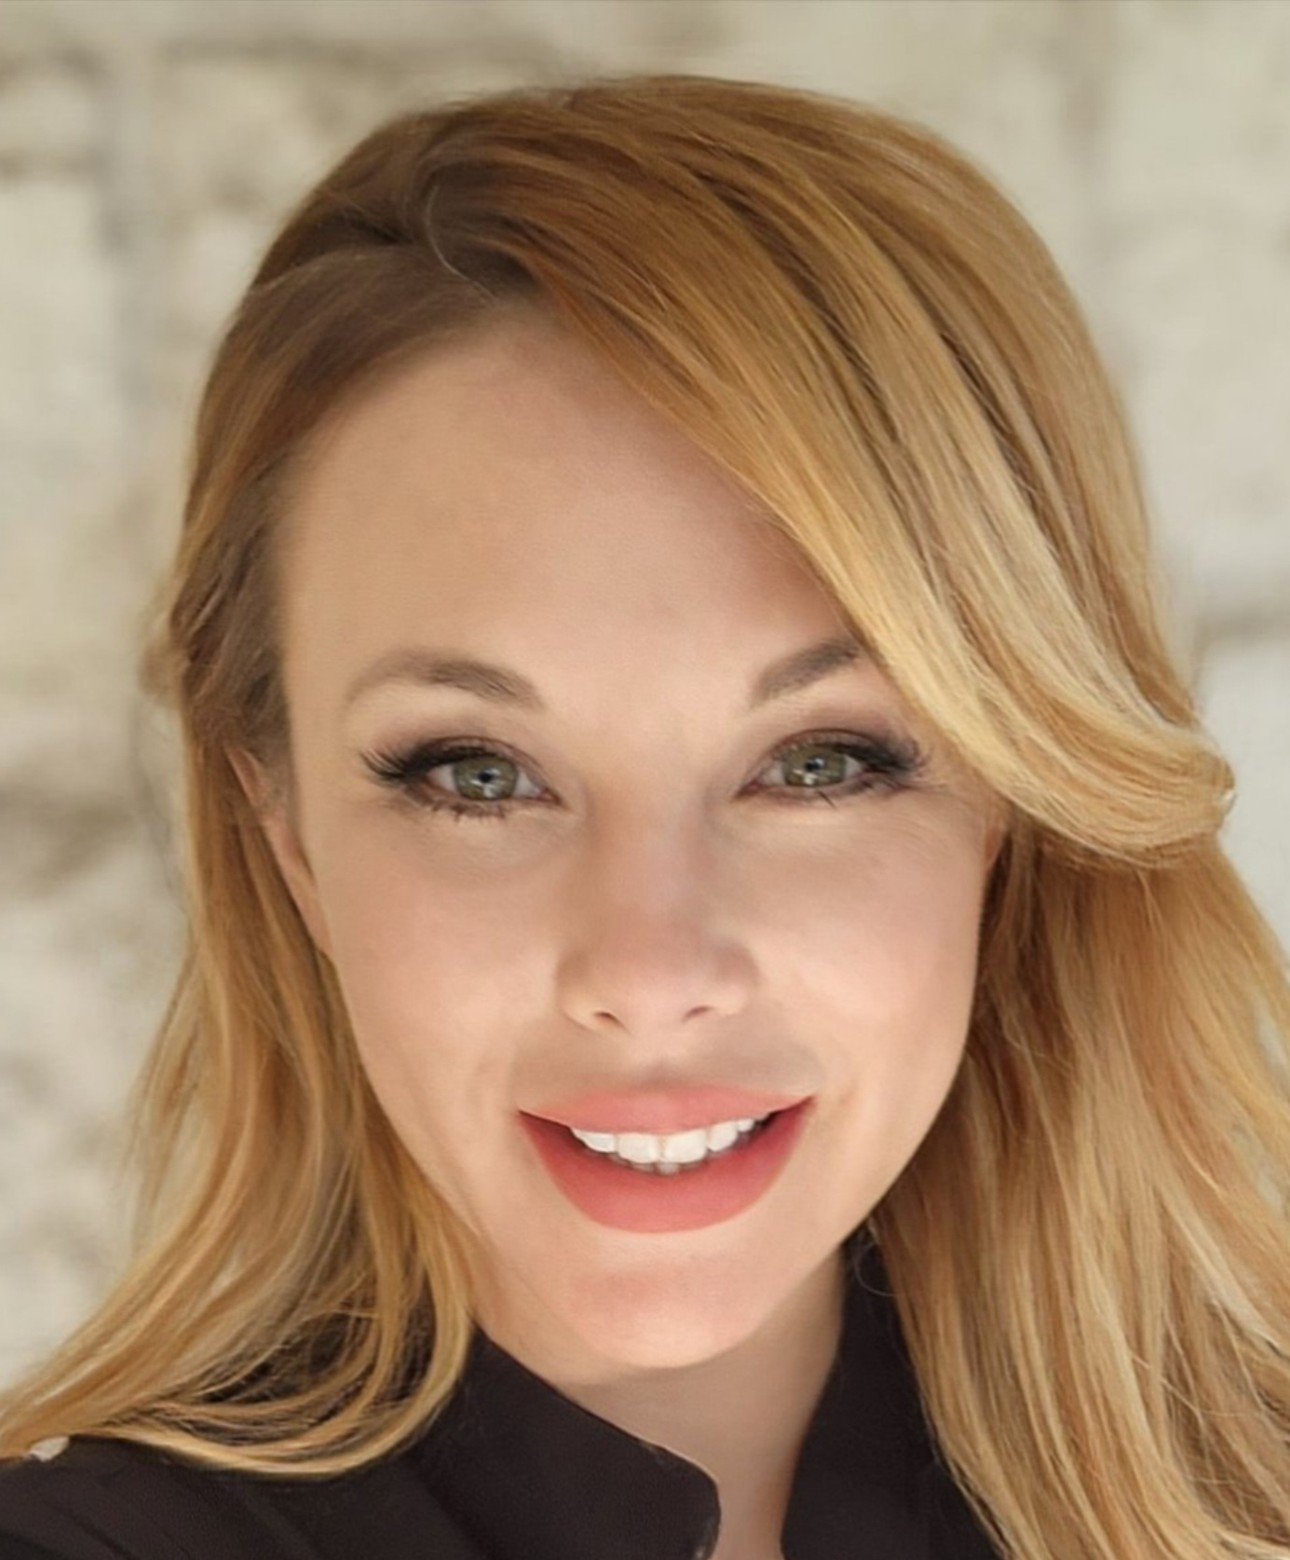
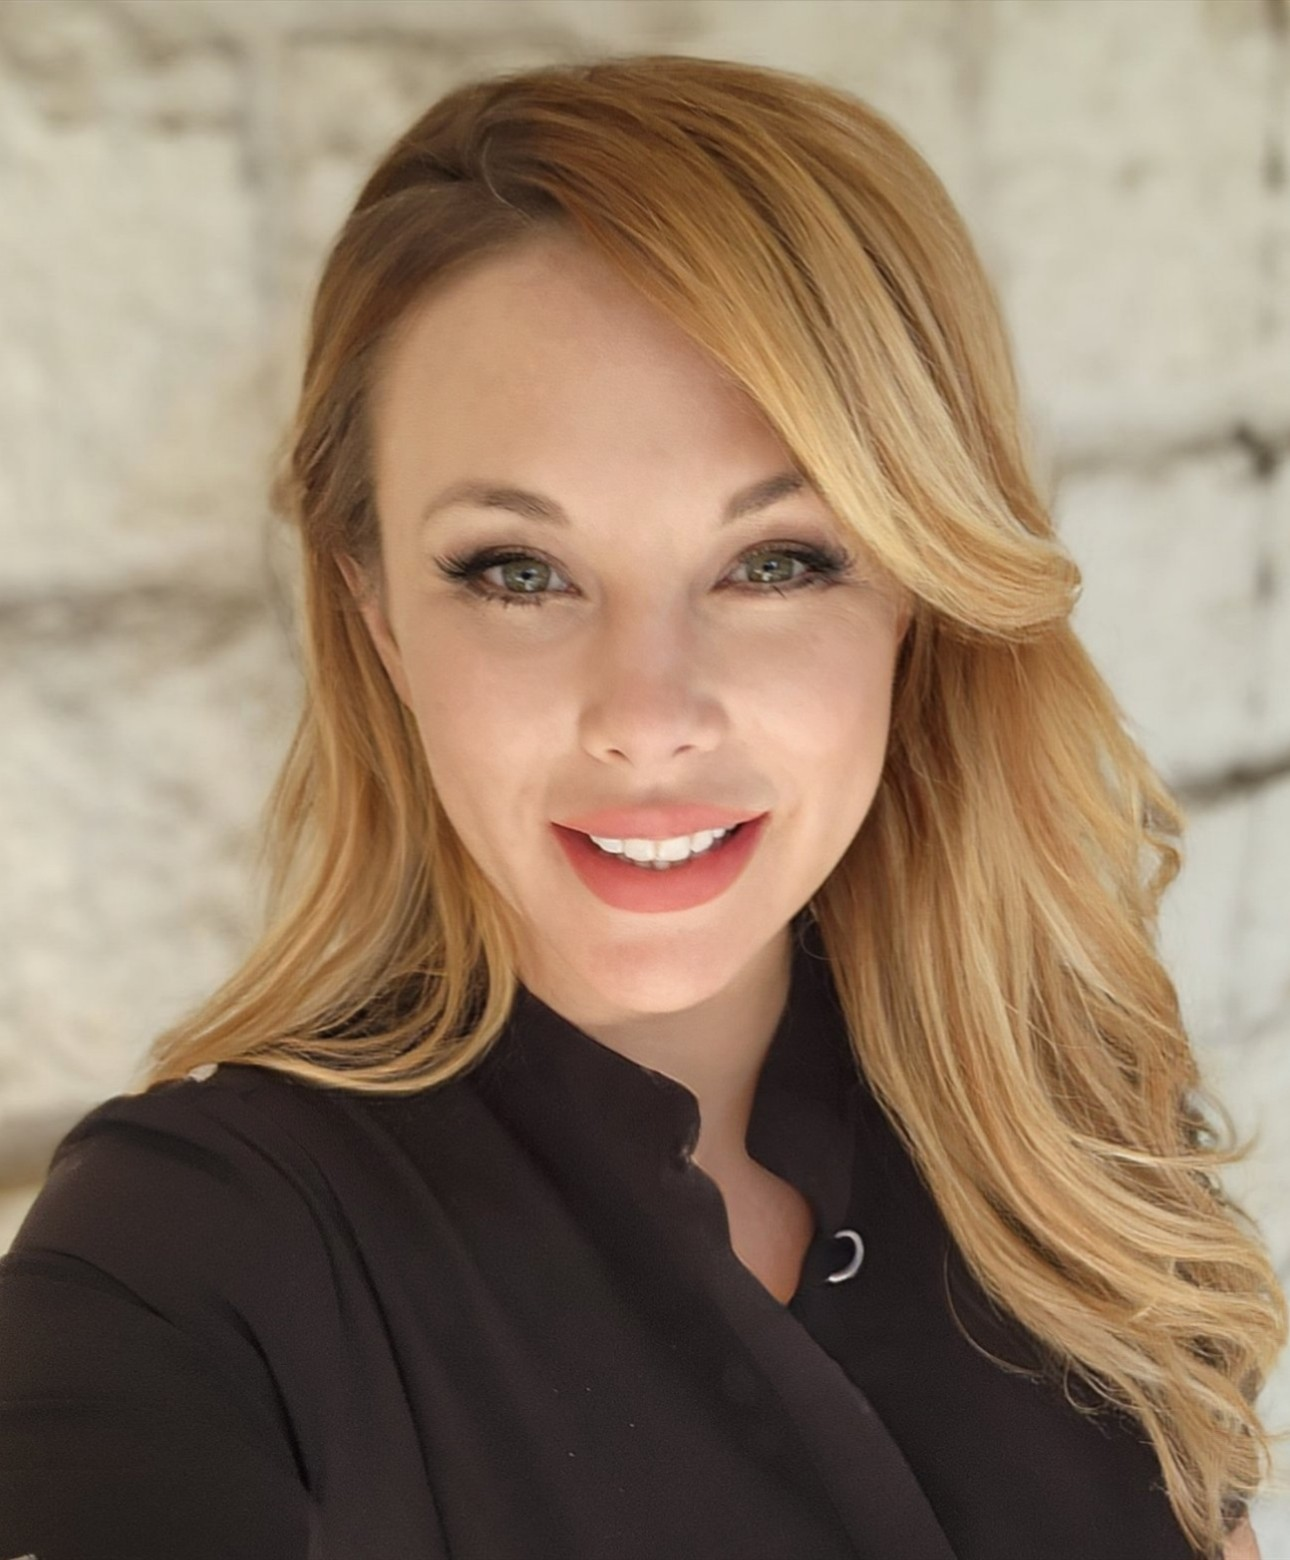
Scale down Mike and Ronni board photos to match Stephen framing

diff --git a/board-of-directors.html b/board-of-directors.html
@@ -154,8 +154,8 @@
 
       <!-- Michael -->
       <div class="bg-white border rounded-3xl overflow-hidden">
-        <div class="aspect-[4/3] bg-slate-200">
-          <img src="assets/michael-driver.jpg" alt="Michael S. Driver" class="w-full h-full object-cover">
+        <div class="aspect-[4/3] bg-white overflow-hidden flex items-start justify-center">
+          <img src="assets/michael-driver.jpg" alt="Michael S. Driver" class="w-[85%] h-[85%] object-cover object-top">
         </div>
         <div class="p-6">
           <div>
@@ -173,8 +173,8 @@
 
       <!-- Ronni -->
       <div class="bg-white border rounded-3xl overflow-hidden">
-        <div class="aspect-[4/3] bg-slate-200">
-          <img src="assets/ronni-kasper.jpeg" alt="Ronni Kasper" class="w-full h-full object-cover">
+        <div class="aspect-[4/3] bg-white overflow-hidden flex items-start justify-center">
+          <img src="assets/ronni-kasper.jpeg" alt="Ronni Kasper" class="w-[85%] h-[85%] object-cover object-top">
         </div>
         <div class="p-6">
           <div>